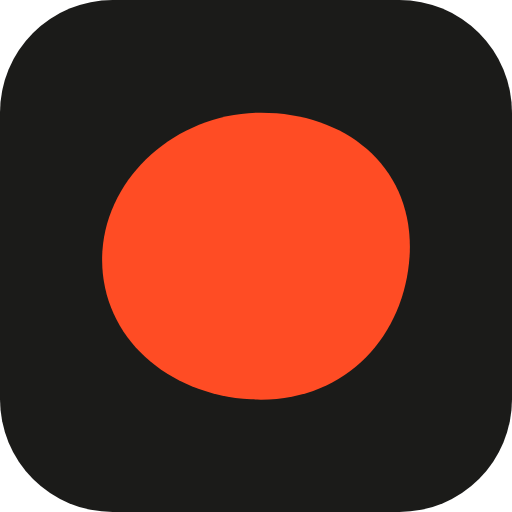
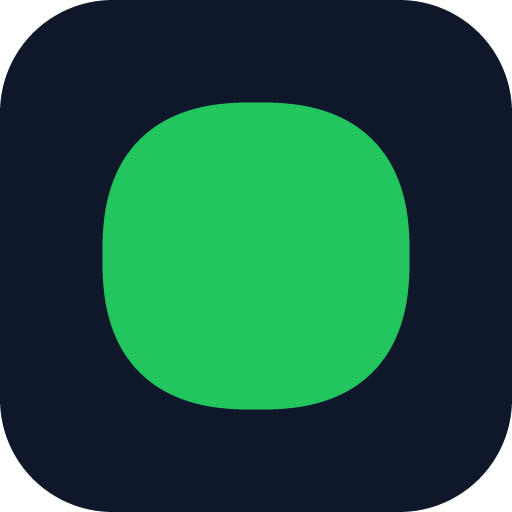
Redesign site with Ocean Breeze theme (#16)
Re-skin the whole site from the warm cream/ink + flame-orange "Taste"
palette to tweakcn's Ocean Breeze: a cool alice-blue light field and a
deep-navy dark field, both carrying a single emerald-green accent.

- styles.css: rewrite the :root + .dark token blocks to the Ocean Breeze
  OKLCH palette (the site's single pop color maps to the theme's emerald
  primary, since the theme's own `accent` is a pale surface tint). Add a
  real 0.5rem radius scale and the Lora serif token. Variable names are
  unchanged, so every token-driven component re-skins automatically.
- Fonts: DM Sans (display/body), IBM Plex Mono (mono/HUD), Lora (serif),
  replacing Hanken Grotesk / Azeret Mono. Add light/dark theme-color meta.
- Favicon + icons: recolor favicon.svg to navy tile + emerald blob, and
  add scripts/gen-icons.mjs (a dependency-free rasterizer) to regenerate
  favicon.ico / apple-touch-icon / icon-192 / icon-512 from that mark.
- site.webmanifest: navy theme/background colors.
- Docs: update the design-system sections in CLAUDE.md + README.md.

Verified with headless-Chrome captures of the home, blog, and post pages
in both light and dark modes.

diff --git a/src/styles.css b/src/styles.css
@@ -3,94 +3,96 @@
 
 @custom-variant dark (&:where(.dark, .dark *));
 
-/* --- Taste -------------------------------------------------------- *
- * The site is a quiet research-lab field: two tones (warm cream and
- * near-black ink) with a single flame-orange accent used sparingly.
- * Display and body are Hanken Grotesk; labels, meta, and HUD readouts
- * are Azeret Mono. Layout corners are square; imagery is masked into
- * soft squircle tiles. Light = cream field, dark = ink field, and a
- * section can flip to the opposite tone with .section-ink.            */
+/* --- Ocean Breeze -------------------------------------------------- *
+ * A calm, oceanic field: cool blue-white in light, deep navy in dark,
+ * with a single emerald-green accent used sparingly (the brand blob,
+ * links, hover states, the active tag, the caret). Display and body are
+ * DM Sans; labels, meta, and HUD readouts are IBM Plex Mono; long-form
+ * serif is Lora. Imagery is masked into soft squircle tiles. Light =
+ * alice-blue field, dark = navy field, and a section can flip to the
+ * opposite tone with .section-ink. Palette from tweakcn "Ocean Breeze". */
 
 :root {
-  --cream: #eaece7;
-  --ink: #1b1b19;
-  --grey: #747370;
+  --background: oklch(0.9751 0.0127 244.2507);
+  --foreground: oklch(0.3729 0.0306 259.7328);
+  --card: oklch(1 0 0);
+  --card-foreground: oklch(0.3729 0.0306 259.7328);
+  --popover: oklch(1 0 0);
+  --popover-foreground: oklch(0.3729 0.0306 259.7328);
+  --primary: oklch(0.7227 0.192 149.5793);
+  --primary-foreground: oklch(1 0 0);
+  --secondary: oklch(0.9514 0.025 236.8242);
+  --secondary-foreground: oklch(0.4461 0.0263 256.8018);
+  --muted: oklch(0.967 0.0029 264.5419);
+  --muted-foreground: oklch(0.551 0.0234 264.3637);
+  /* The site keeps a single pop color; in Ocean Breeze that's the
+     emerald primary. (The theme's own `accent` is a pale mint surface
+     tint — too washed-out to carry links/blob, so accent == primary.) */
+  --accent: oklch(0.7227 0.192 149.5793);
+  --accent-foreground: oklch(1 0 0);
+  --redline: oklch(0.7227 0.192 149.5793);
+  --destructive: oklch(0.6368 0.2078 25.3313);
+  --destructive-foreground: oklch(1 0 0);
+  --border: oklch(0.9276 0.0058 264.5313);
+  --input: oklch(0.9276 0.0058 264.5313);
+  --ring: oklch(0.7227 0.192 149.5793);
 
-  --background: #eaece7;
-  --foreground: #1c1c1a;
-  --card: #e3e2dd;
-  --card-foreground: #1c1c1a;
-  --popover: #eaece7;
-  --popover-foreground: #1c1c1a;
-  --primary: #1c1c1a;
-  --primary-foreground: #f7f6f2;
-  --secondary: #747370;
-  --secondary-foreground: #f7f6f2;
-  --muted: #dddbd4;
-  --muted-foreground: #6f6e6a;
-  --accent: #ff4c24;
-  --accent-foreground: #fbfbfb;
-  --redline: #ff4c24;
-  --destructive: #cf3a1c;
-  --destructive-foreground: #fbfbfb;
-  --border: color-mix(in srgb, #1c1c1a 16%, transparent);
-  --input: color-mix(in srgb, #1c1c1a 16%, transparent);
-  --ring: #ff4c24;
+  /* A section flipped to the opposite tone (navy island in a light page). */
+  --section-ink-bg: oklch(0.2077 0.0398 265.7549);
+  --section-ink-fg: oklch(0.8717 0.0093 258.3382);
+  --section-ink-muted: oklch(0.551 0.0234 264.3637);
+  --section-ink-border: color-mix(in srgb, oklch(0.8717 0.0093 258.3382) 16%, transparent);
 
-  /* A section flipped to the opposite tone (ink island in a cream page). */
-  --section-ink-bg: #1b1b19;
-  --section-ink-fg: #eceae5;
-  --section-ink-muted: #9a9a96;
-  --section-ink-border: color-mix(in srgb, #eceae5 16%, transparent);
+  --code-bg: oklch(0.967 0.0029 264.5419);
+  --adm-note: oklch(0.7227 0.192 149.5793);
+  --adm-info: oklch(0.551 0.0234 264.3637);
+  --adm-tip: oklch(0.6 0.12 182);
+  --adm-warning: oklch(0.64 0.13 70);
+  --adm-danger: oklch(0.6368 0.2078 25.3313);
 
-  --code-bg: color-mix(in srgb, #1c1c1a 4%, #eaece7);
-  --adm-note: #ff4c24;
-  --adm-info: #747370;
-  --adm-tip: #2e7d4f;
-  --adm-warning: #9a6a12;
-  --adm-danger: #c0392b;
-
-  --font-sans: "Hanken Grotesk", ui-sans-serif, "Helvetica Neue", system-ui, sans-serif;
-  --font-display: "Hanken Grotesk", ui-sans-serif, "Helvetica Neue", system-ui, sans-serif;
-  --font-mono: "Azeret Mono", ui-monospace, SFMono-Regular, Menlo, Monaco, Consolas, monospace;
-  --radius: 0rem;
+  --font-sans: "DM Sans", ui-sans-serif, system-ui, -apple-system, "Helvetica Neue", sans-serif;
+  --font-display: "DM Sans", ui-sans-serif, system-ui, -apple-system, "Helvetica Neue", sans-serif;
+  --font-serif: "Lora", ui-serif, Georgia, Cambria, "Times New Roman", serif;
+  --font-mono: "IBM Plex Mono", ui-monospace, SFMono-Regular, Menlo, Monaco, Consolas, monospace;
+  --radius: 0.5rem;
   --radius-tile: 1.4rem;
+  --tracking-normal: 0em;
 }
 
 .dark {
-  --background: #1b1b19;
-  --foreground: #eceae5;
-  --card: #242422;
-  --card-foreground: #eceae5;
-  --popover: #242422;
-  --popover-foreground: #eceae5;
-  --primary: #eceae5;
-  --primary-foreground: #1b1b19;
-  --secondary: #9a9a96;
-  --secondary-foreground: #1b1b19;
-  --muted: #2a2a27;
-  --muted-foreground: #9a9a96;
-  --accent: #ff5c39;
-  --accent-foreground: #1b1b19;
-  --redline: #ff5c39;
-  --destructive: #ff6a4a;
-  --destructive-foreground: #1b1b19;
-  --border: color-mix(in srgb, #eceae5 15%, transparent);
-  --input: color-mix(in srgb, #eceae5 15%, transparent);
-  --ring: #ff5c39;
+  --background: oklch(0.2077 0.0398 265.7549);
+  --foreground: oklch(0.8717 0.0093 258.3382);
+  --card: oklch(0.2795 0.0368 260.031);
+  --card-foreground: oklch(0.8717 0.0093 258.3382);
+  --popover: oklch(0.2795 0.0368 260.031);
+  --popover-foreground: oklch(0.8717 0.0093 258.3382);
+  --primary: oklch(0.7729 0.1535 163.2231);
+  --primary-foreground: oklch(0.2077 0.0398 265.7549);
+  --secondary: oklch(0.3351 0.0331 260.912);
+  --secondary-foreground: oklch(0.7118 0.0129 286.0665);
+  --muted: oklch(0.2463 0.0275 259.9628);
+  --muted-foreground: oklch(0.551 0.0234 264.3637);
+  --accent: oklch(0.7729 0.1535 163.2231);
+  --accent-foreground: oklch(0.2077 0.0398 265.7549);
+  --redline: oklch(0.7729 0.1535 163.2231);
+  --destructive: oklch(0.7040 0.1900 25.3313);
+  --destructive-foreground: oklch(0.2077 0.0398 265.7549);
+  --border: oklch(0.4461 0.0263 256.8018);
+  --input: oklch(0.4461 0.0263 256.8018);
+  --ring: oklch(0.7729 0.1535 163.2231);
 
-  /* In the ink field, the flipped island is the cream tone. */
-  --section-ink-bg: #eaece7;
-  --section-ink-fg: #1c1c1a;
-  --section-ink-muted: #6f6e6a;
-  --section-ink-border: color-mix(in srgb, #1c1c1a 16%, transparent);
+  /* In the navy field, the flipped island is the light alice-blue tone. */
+  --section-ink-bg: oklch(0.9751 0.0127 244.2507);
+  --section-ink-fg: oklch(0.3729 0.0306 259.7328);
+  --section-ink-muted: oklch(0.551 0.0234 264.3637);
+  --section-ink-border: color-mix(in srgb, oklch(0.3729 0.0306 259.7328) 16%, transparent);
 
-  --code-bg: #161615;
-  --adm-note: #ff5c39;
-  --adm-info: #9a9a96;
-  --adm-tip: #7bd8a0;
-  --adm-warning: #e8c46b;
-  --adm-danger: #f37e5a;
+  --code-bg: oklch(0.2463 0.0275 259.9628);
+  --adm-note: oklch(0.7729 0.1535 163.2231);
+  --adm-info: oklch(0.7118 0.0129 286.0665);
+  --adm-tip: oklch(0.7845 0.1325 181.912);
+  --adm-warning: oklch(0.82 0.13 80);
+  --adm-danger: oklch(0.704 0.19 25.3313);
 }
 
 @theme inline {
@@ -117,12 +119,13 @@
 
   --font-sans: var(--font-sans);
   --font-display: var(--font-display);
+  --font-serif: var(--font-serif);
   --font-mono: var(--font-mono);
 
-  --radius-sm: 0;
-  --radius-md: 0;
-  --radius-lg: 0;
-  --radius-xl: 0;
+  --radius-sm: calc(var(--radius) - 4px);
+  --radius-md: calc(var(--radius) - 2px);
+  --radius-lg: var(--radius);
+  --radius-xl: calc(var(--radius) + 4px);
 }
 
 @layer base {
@@ -146,6 +149,7 @@
     background-color: var(--background);
     color: var(--foreground);
     font-family: var(--font-sans);
+    letter-spacing: var(--tracking-normal);
     -webkit-font-smoothing: antialiased;
     text-rendering: optimizeLegibility;
   }

diff --git a/src/partials/layout.html b/src/partials/layout.html
@@ -4,6 +4,8 @@
     <meta charset="utf-8" />
     <meta name="viewport" content="width=device-width, initial-scale=1" />
     <meta name="color-scheme" content="light dark" />
+    <meta name="theme-color" content="#f0f8ff" media="(prefers-color-scheme: light)" />
+    <meta name="theme-color" content="#0f172a" media="(prefers-color-scheme: dark)" />
     <title>{{ title }}</title>
     <meta name="description" content="{{ description }}" />
     <link rel="canonical" href="{{ canonical }}" />
@@ -30,7 +32,7 @@
     <link rel="preconnect" href="https://fonts.googleapis.com" />
     <link rel="preconnect" href="https://fonts.gstatic.com" crossorigin />
     <link
-      href="https://fonts.googleapis.com/css2?family=Azeret+Mono:wght@400..600&family=Hanken+Grotesk:ital,wght@0,300..800;1,400..600&display=swap"
+      href="https://fonts.googleapis.com/css2?family=DM+Sans:ital,opsz,wght@0,9..40,300..700;1,9..40,400..600&family=IBM+Plex+Mono:wght@400;500;600&family=Lora:ital,wght@0,400..600;1,400..500&display=swap"
       rel="stylesheet"
     />
 

diff --git a/CLAUDE.md b/CLAUDE.md
@@ -65,9 +65,11 @@ Pages: `src/pages/*.html`. Plain HTML with `{{ placeholders }}` for values the l
 
 ## Design system
 
-Taste lab (inspired by tastelabs.com). The site is a quiet two-tone field with a single flame accent. Light theme is warm cream (#EAECE7) with near-black ink text (#1C1C1A); dark theme is a near-black ink field (#1B1B19) with off-white text (#ECEAE5). Muted text is grey (#747370). The one accent is flame orange (#FF4C24, slightly brighter #FF5C39 in dark), used sparingly: the brand blob, hover states, the active tag, link underlines. Layout corners are square (`--radius: 0`); imagery is masked into soft squircle tiles (`--radius-tile`); hairlines are ink at ~16% alpha via `--border`. A section can flip to the opposite tone with `.section-ink`. Signature elements: the morphing-blob mark (`.blob`), two-tone statement text (`.statement` emphasis plus `.ctx` context), mono HUD meta labels, and scramble-on-hover (`scramble.js`). Motion is CSS plus tiny vanilla JS only: no GSAP, Lenis, or WebGL.
+Ocean Breeze (palette from [tweakcn](https://tweakcn.com/r/themes/ocean-breeze.json); layout language inspired by tastelabs.com). The site is a calm two-tone field with a single emerald accent. Light theme is a cool alice-blue field (`#F0F8FF`, `oklch(0.9751 0.0127 244.25)`) with dark slate-blue ink text (`oklch(0.3729 0.0306 259.73)`); dark theme is a deep navy field (`#0F172A`) with light-grey text (`oklch(0.8717 0.0093 258.34)`). Muted text is slate-grey. The one accent is emerald green (`#22C55E`, slightly brighter `#34D399` in dark), used sparingly: the brand blob, hover states, the active tag, link underlines. Layout corners use a `0.5rem` radius (`--radius`); imagery is masked into soft squircle tiles (`--radius-tile`); hairlines are a light slate `--border`. A section can flip to the opposite tone with `.section-ink`. Signature elements: the morphing-blob mark (`.blob`), two-tone statement text (`.statement` emphasis plus `.ctx` context), mono HUD meta labels, and scramble-on-hover (`scramble.js`). Motion is CSS plus tiny vanilla JS only: no GSAP, Lenis, or WebGL.
 
-Fonts: Hanken Grotesk for display, headings, and body; Azeret Mono for nav, labels, meta, and code. Visual changes should stay consistent with the tokens in `src/styles.css`.
+Fonts: DM Sans for display, headings, and body; IBM Plex Mono for nav, labels, meta, and code; Lora available as the serif (`--font-serif`). Visual changes should stay consistent with the tokens in `src/styles.css`.
+
+The favicon mark (navy tile + emerald blob) lives in `public/favicon.svg`. The bitmap icons (`favicon.ico`, `apple-touch-icon.png`, `icon-192.png`, `icon-512.png`) are regenerated from that mark by `node scripts/gen-icons.mjs` — re-run it after any palette change so the bitmaps stay in sync.
 
 ## Hosting
 

diff --git a/README.md b/README.md
@@ -34,7 +34,7 @@ scripts/
 | Component | Choice |
 |---|---|
 | Markup | Plain HTML in `src/pages/` + `src/partials/` |
-| Styles | Tailwind v4 (CLI compile), with the Taste two-tone design tokens defined as CSS variables in `src/styles.css` |
+| Styles | Tailwind v4 (CLI compile), with the Ocean Breeze two-tone design tokens defined as CSS variables in `src/styles.css` |
 | Content | Markdown in `src/posts/`, rendered via `marked` at build time. Code blocks highlighted by Shiki (build-time, dual light/dark); supports `:::note`/`tip`/`warning`/`danger` admonitions and auto heading anchors. |
 | Interactivity | Vanilla JS across five small files (theme, typing, blog filter, copy-code, scramble-on-hover); the morphing blob is CSS only. No bundler, no client framework. |
 | Build | One Node script. ~200ms HTML, ~150ms Tailwind. |
@@ -102,7 +102,7 @@ There is no SSH, no droplet, no compose file. Cloudflare Pages auto-provisions a
 
 ## Design system
 
-Taste lab (inspired by [tastelabs.com](https://tastelabs.com)). A quiet two-tone field with a single flame accent. Light theme: warm cream (#EAECE7) with near-black ink text (#1C1C1A). Dark theme: a near-black ink field (#1B1B19) with off-white text (#ECEAE5). Muted text is grey (#747370); the lone accent is flame orange (#FF4C24, slightly brighter in dark). Layout corners are square; imagery is masked into soft squircle tiles; a section can flip to the opposite tone with `.section-ink`. Signature elements: the morphing-blob mark, two-tone statement text, mono HUD meta labels, and scramble-on-hover. Fonts: Hanken Grotesk for display, headings, and body; Azeret Mono for nav, labels, meta, and code. Tokens are CSS variables in `src/styles.css`, applied through Tailwind utility classes on plain HTML.
+Ocean Breeze (palette from [tweakcn](https://tweakcn.com/r/themes/ocean-breeze.json); layout inspired by [tastelabs.com](https://tastelabs.com)). A calm two-tone field with a single emerald accent. Light theme: cool alice-blue (#F0F8FF) with dark slate-blue text. Dark theme: a deep navy field (#0F172A) with light-grey text. Muted text is slate-grey; the lone accent is emerald green (#22C55E, brighter #34D399 in dark). Corners use a 0.5rem radius; imagery is masked into soft squircle tiles; a section can flip to the opposite tone with `.section-ink`. Signature elements: the morphing-blob mark, two-tone statement text, mono HUD meta labels, and scramble-on-hover. Fonts: DM Sans for display, headings, and body; IBM Plex Mono for nav, labels, meta, and code; Lora as the serif. Tokens are CSS variables in `src/styles.css`, applied through Tailwind utility classes on plain HTML.
 
 ## CI / CD
 
